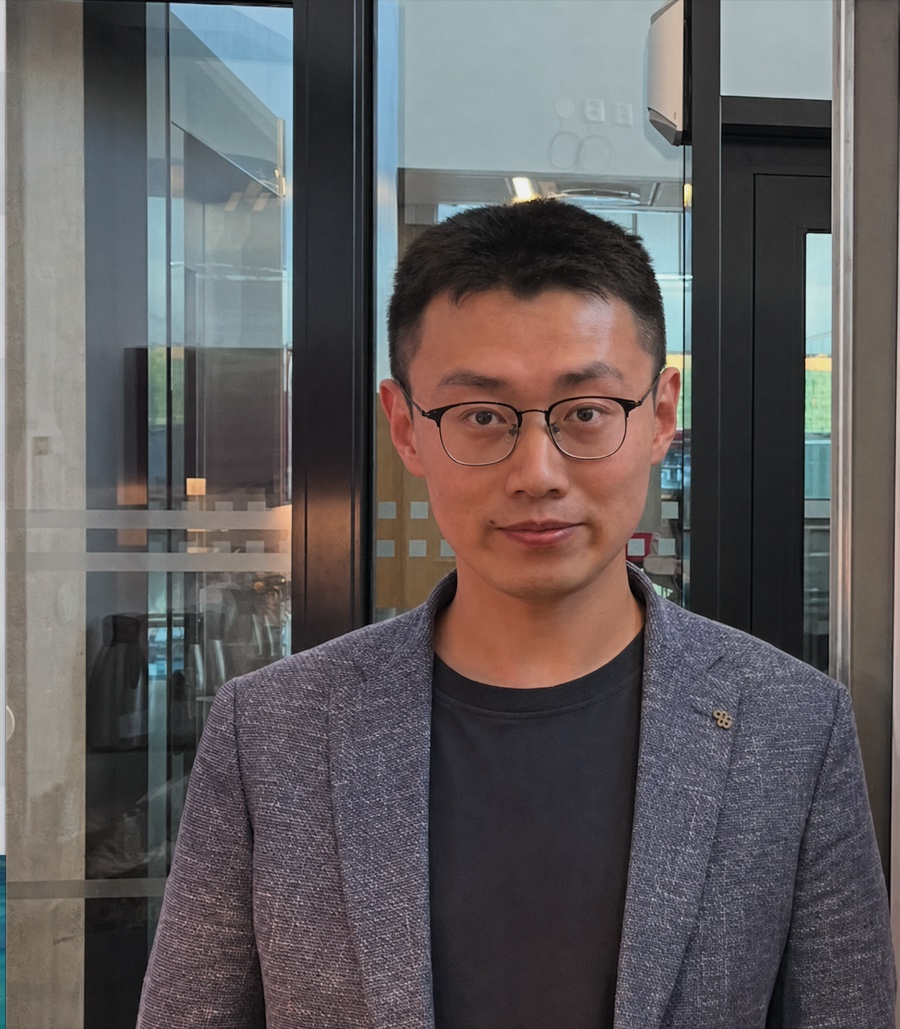
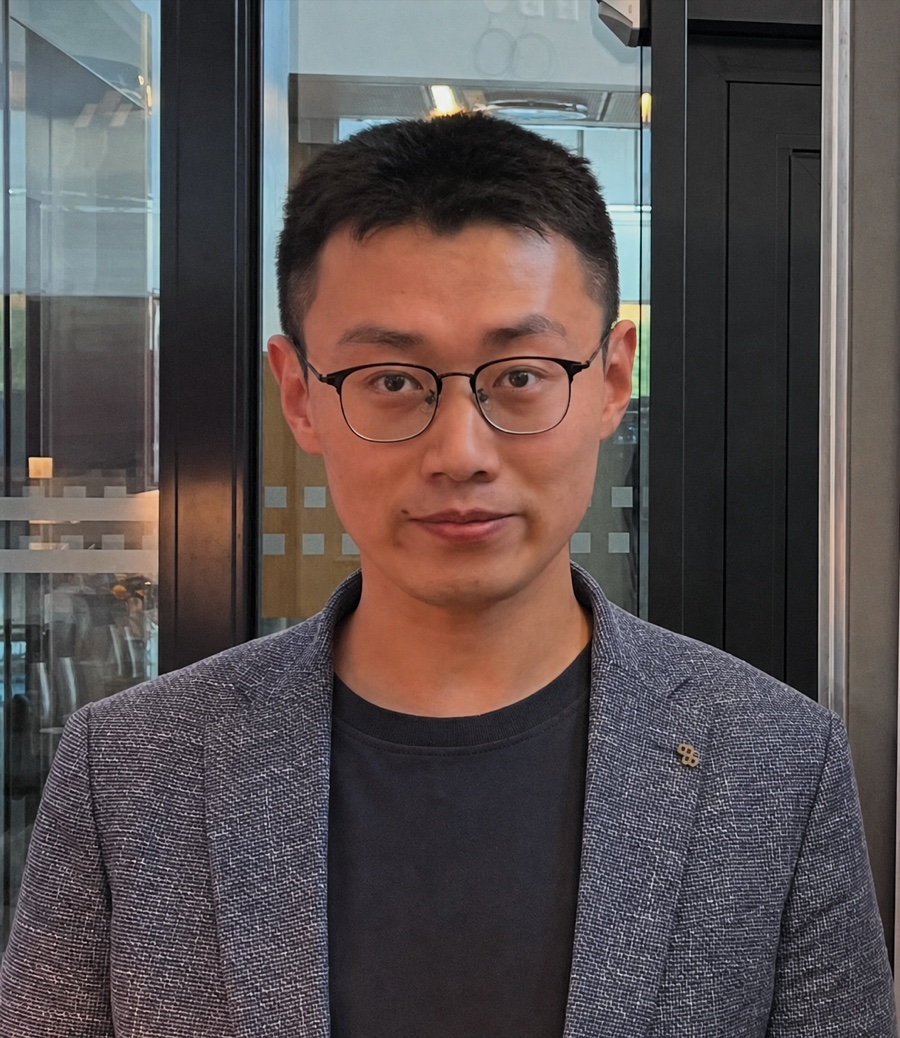
Refocus homepage on transferable scientific reasoning

diff --git a/index.html b/index.html
@@ -6,21 +6,21 @@
     <meta name="theme-color" content="#0a2425" />
     <meta
       name="description"
-      content="Xianglu Xiao is an AI researcher at Imperial College London building agentic systems for drug discovery and biological experimentation."
+      content="Xianglu Xiao builds AI co-scientists that transfer scientific reasoning principles across drug discovery and biological experimentation."
     />
     <meta property="og:type" content="website" />
     <meta property="og:url" content="https://xiangluxiao.github.io/" />
     <meta property="og:title" content="Xianglu Xiao — Agentic AI for Drug Discovery" />
     <meta
       property="og:description"
-      content="AI researcher at Imperial College London building reasoning-enhanced systems for drug discovery and biological experimentation."
+      content="AI co-scientists that transfer scientific reasoning principles across drug discovery and biological experimentation."
     />
     <meta property="og:image" content="https://xiangluxiao.github.io/og.png" />
     <meta name="twitter:card" content="summary_large_image" />
     <meta name="twitter:title" content="Xianglu Xiao — Agentic AI for Drug Discovery" />
     <meta
       name="twitter:description"
-      content="AI researcher at Imperial College London building reasoning-enhanced systems for drug discovery and biological experimentation."
+      content="AI co-scientists that transfer scientific reasoning principles across drug discovery and biological experimentation."
     />
     <meta name="twitter:image" content="https://xiangluxiao.github.io/og.png" />
     <title>Xianglu Xiao — Agentic AI for Drug Discovery</title>
@@ -65,24 +65,15 @@
     <main id="main">
       <section class="hero" id="top" aria-labelledby="hero-title">
         <div class="hero-copy">
-          <p class="eyebrow">
-            Imperial College London · Bioengineering
-          </p>
+          <p class="eyebrow">AI Co-Scientist Systems · Imperial College London</p>
           <h1 id="hero-title">
-            <span>Building AI that reasons</span>
-            <span class="hero-accent">with science.</span>
+            <span>Scientific reasoning</span>
+            <span class="hero-accent">transfers across problems.</span>
           </h1>
           <p class="hero-summary">
-            I am an AI researcher and PhD candidate developing multi-agent systems that connect predictive models,
-            experimental evidence and domain knowledge — turning complex drug discovery workflows into research tools
-            scientists can use.
+            I build AI co-scientists that learn from scientific experience, reason from biological and experimental
+            premises, and prioritise plausible solutions rather than produce a single prediction.
           </p>
-          <div class="core-systems" aria-label="Core research systems">
-            <span>EvoTarget</span>
-            <span>EvoDrug</span>
-            <span>CrystalXGPT</span>
-            <span>EvoOrganoid <small>OrganoidXGPT</small></span>
-          </div>
           <div class="hero-links" aria-label="Profile links">
             <a class="button button-primary" href="#research">Explore my work</a>
             <a class="button button-secondary" href="https://scholar.google.com/citations?user=R48SPAgAAAAJ&amp;hl=en" target="_blank" rel="noreferrer">
@@ -98,33 +89,26 @@
 
         <aside class="hero-profile" aria-label="Research profile">
           <div class="portrait-frame">
-            <img src="assets/xianglu-xiao.jpg" alt="Portrait of Xianglu Xiao" width="900" height="1029" />
+            <img src="assets/xianglu-xiao.jpg" alt="Portrait of Xianglu Xiao" width="900" height="1038" />
             <span class="portrait-status"><span aria-hidden="true"></span> London, UK</span>
           </div>
           <div class="profile-note">
-            <span class="note-label">Current focus</span>
+            <span class="note-label">Research hypothesis</span>
             <p>
-              An evolving family of scientific agents spanning target discovery, molecular design, crystallisation
-              and organoid experimentation.
+              Scientific reasoning principles can be extracted from individual sources and transferred across
+              different scientific problems.
             </p>
           </div>
         </aside>
       </section>
 
-      <section class="proof-strip" aria-label="Research metrics">
-        <div><strong>1,487</strong><span>Google Scholar citations</span></div>
-        <div><strong>10</strong><span>h-index</span></div>
-        <div><strong>1.16M+</strong><span>compounds screened</span></div>
-        <p>Scholar metrics snapshot · September 2026</p>
-      </section>
-
       <section class="section section-feature" id="research" aria-labelledby="research-title">
         <div class="section-heading">
-          <p class="eyebrow">Core research systems</p>
-          <h2 id="research-title">Four systems. One scientific loop.</h2>
+          <p class="eyebrow">Transferable scientific reasoning</p>
+          <h2 id="research-title">Different problems. Shared principles.</h2>
           <p>
-            The portfolio follows a connected research cycle — identify the right target, design the right molecule,
-            resolve the right structure and test the right biological system.
+            EvoTarget, EvoDrug, CrystalXGPT and EvoOrganoid apply the same reasoning philosophy across target
+            discovery, molecular design, protein crystallisation and organoid experimentation.
           </p>
         </div>
         <article class="feature-card">
@@ -382,7 +366,7 @@
     <footer class="site-footer">
       <div>
         <span class="wordmark-mark" aria-hidden="true">XX</span>
-        <p>Agentic AI for drug discovery and biological experimentation.</p>
+        <p>Transferable scientific reasoning for drug discovery and biological experimentation.</p>
       </div>
       <nav aria-label="Footer links">
         <a href="https://github.com/XiangLuXiao" target="_blank" rel="noreferrer">GitHub ↗</a>

diff --git a/styles.css b/styles.css
@@ -196,30 +196,6 @@ a {
   line-height: 1.65;
 }
 
-.core-systems {
-  display: flex;
-  flex-wrap: wrap;
-  gap: 9px;
-  margin-top: 24px;
-}
-
-.core-systems span {
-  padding: 8px 12px;
-  border: 1px solid rgba(19, 35, 38, 0.16);
-  border-radius: 999px;
-  color: var(--forest);
-  background: rgba(255, 253, 248, 0.6);
-  font-size: 0.76rem;
-  font-weight: 800;
-  letter-spacing: 0.02em;
-}
-
-.core-systems small {
-  color: rgba(19, 35, 38, 0.52);
-  font-size: 0.72em;
-  font-weight: 750;
-}
-
 .hero-links {
   display: flex;
   flex-wrap: wrap;
@@ -328,53 +304,6 @@ a {
   font-family: "Iowan Old Style", Georgia, serif;
   font-size: 1.05rem;
   line-height: 1.45;
-}
-
-.proof-strip {
-  display: grid;
-  grid-template-columns: repeat(3, 1fr) 1.1fr;
-  width: min(100% - 48px, var(--max-width));
-  margin: 0 auto;
-  border-top: 1px solid var(--line);
-  border-bottom: 1px solid var(--line);
-}
-
-.proof-strip > * {
-  min-width: 0;
-  margin: 0;
-  padding: 30px clamp(16px, 2.5vw, 34px);
-  border-right: 1px solid var(--line);
-}
-
-.proof-strip > :first-child {
-  padding-left: 0;
-}
-
-.proof-strip > :last-child {
-  display: flex;
-  align-items: center;
-  border-right: 0;
-  color: var(--ink-soft);
-  font-size: 0.82rem;
-}
-
-.proof-strip div {
-  display: flex;
-  flex-direction: column;
-  gap: 2px;
-}
-
-.proof-strip strong {
-  font-family: "Iowan Old Style", Georgia, serif;
-  font-size: clamp(1.9rem, 3vw, 3rem);
-  font-weight: 500;
-  line-height: 1;
-}
-
-.proof-strip span {
-  color: var(--ink-soft);
-  font-size: 0.8rem;
-  font-weight: 650;
 }
 
 .section {
@@ -1041,21 +970,6 @@ a {
     width: min(100%, 470px);
   }
 
-  .proof-strip {
-    grid-template-columns: repeat(3, 1fr);
-  }
-
-  .proof-strip > :nth-child(3) {
-    border-right: 0;
-  }
-
-  .proof-strip > :last-child {
-    grid-column: 1 / -1;
-    justify-content: center;
-    padding: 14px;
-    border-top: 1px solid var(--line);
-  }
-
   .section-heading,
   .feature-card,
   .section-heading-compact,
@@ -1091,7 +1005,6 @@ a {
 @media (max-width: 620px) {
   .site-header,
   .hero,
-  .proof-strip,
   .section {
     width: min(100% - 28px, var(--max-width));
   }
@@ -1125,23 +1038,6 @@ a {
   .profile-links {
     justify-content: space-between;
     gap: 12px;
-  }
-
-  .proof-strip {
-    grid-template-columns: 1fr;
-  }
-
-  .proof-strip > * {
-    padding-left: 0;
-    border-right: 0;
-    border-bottom: 1px solid var(--line);
-  }
-
-  .proof-strip > :last-child {
-    grid-column: auto;
-    justify-content: flex-start;
-    border-top: 0;
-    border-bottom: 0;
   }
 
   .section {

diff --git a/README.md b/README.md
@@ -21,6 +21,6 @@ The included workflow publishes the site to `https://xiangluxiao.github.io/` aft
 ## Content notes
 
 - Public repository links were verified against the `XiangLuXiao` GitHub profile in September 2026.
-- Google Scholar metrics are a static September 2026 snapshot.
 - The academic email is public; the telephone number from the source CV is intentionally not included.
 - Publication descriptions and professional experience were checked against the August 2026 research CV.
+- The homepage research philosophy is adapted from the August 2026 AI Co-Scientist presentation.
